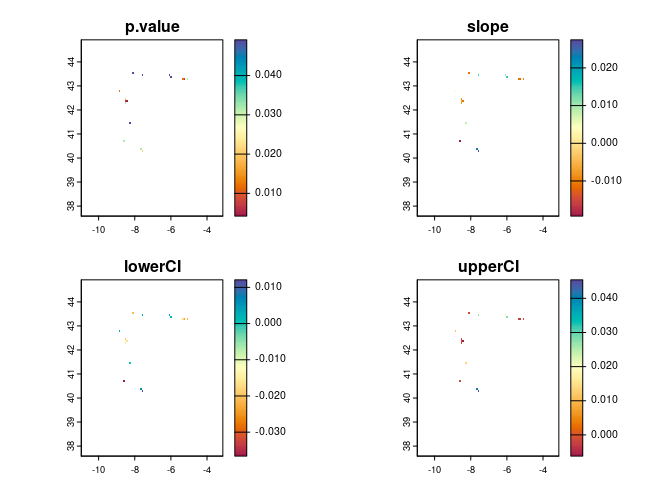
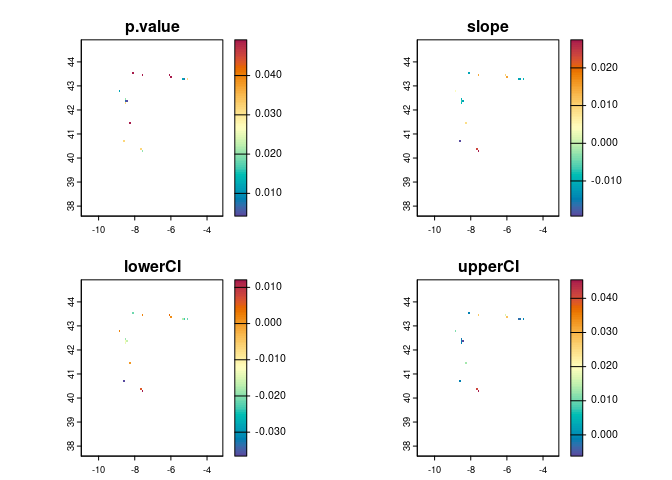
re-reverse trend palette

diff --git a/README.md b/README.md
@@ -283,7 +283,7 @@ trend <- ecotrends::getTrend(rasts = preds,
 #> Trend raster(s) imported from the specified 'file', which already exists in the current working directory. Please provide a different 'file' path/name if this is not what you want.
 
 plot(trend, 
-     col = hcl.colors(100, "spectral"),
+     col = hcl.colors(100, "spectral", rev = TRUE),
      type = "continuous")
 ```
 
@@ -296,7 +296,7 @@ the region polygon:
 
 ``` r
 plot(trend[["slope"]], 
-     col = hcl.colors(100, "spectral"))
+     col = hcl.colors(100, "spectral", rev = TRUE))
 
 plot(reg, lwd = 0.5, add = TRUE)
 plot(countries, lwd = 0.8, add = TRUE)
